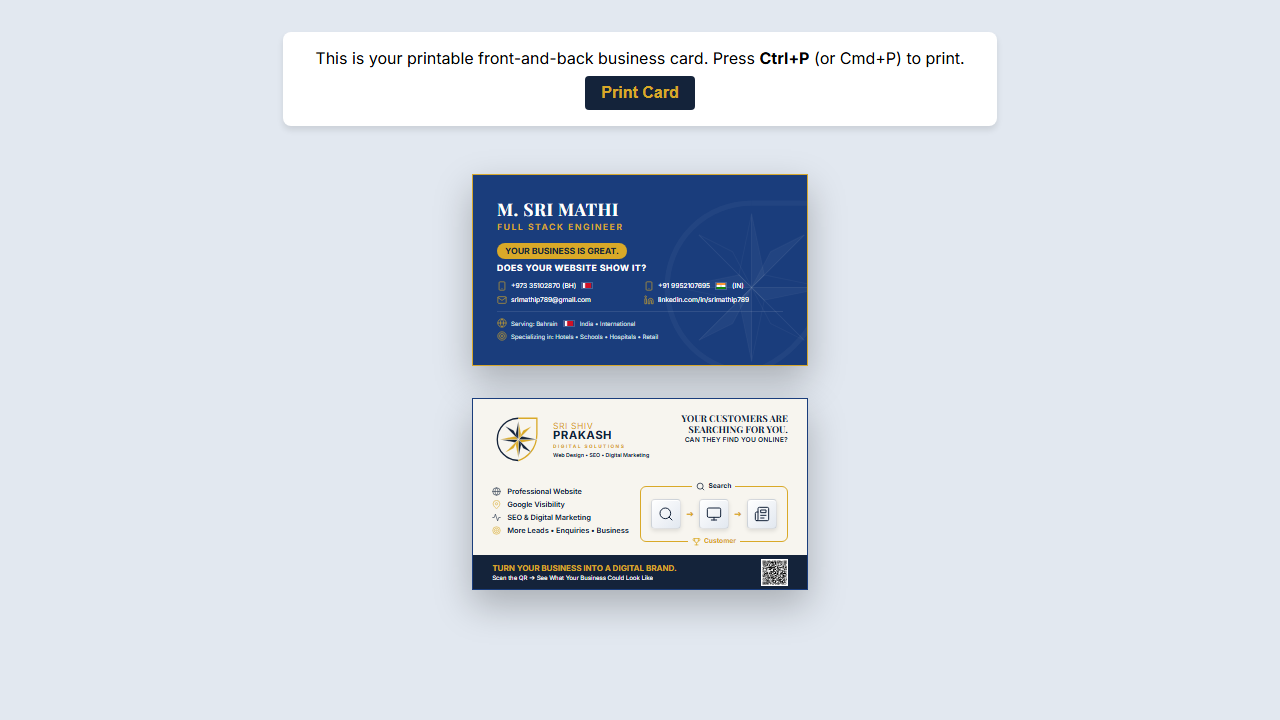
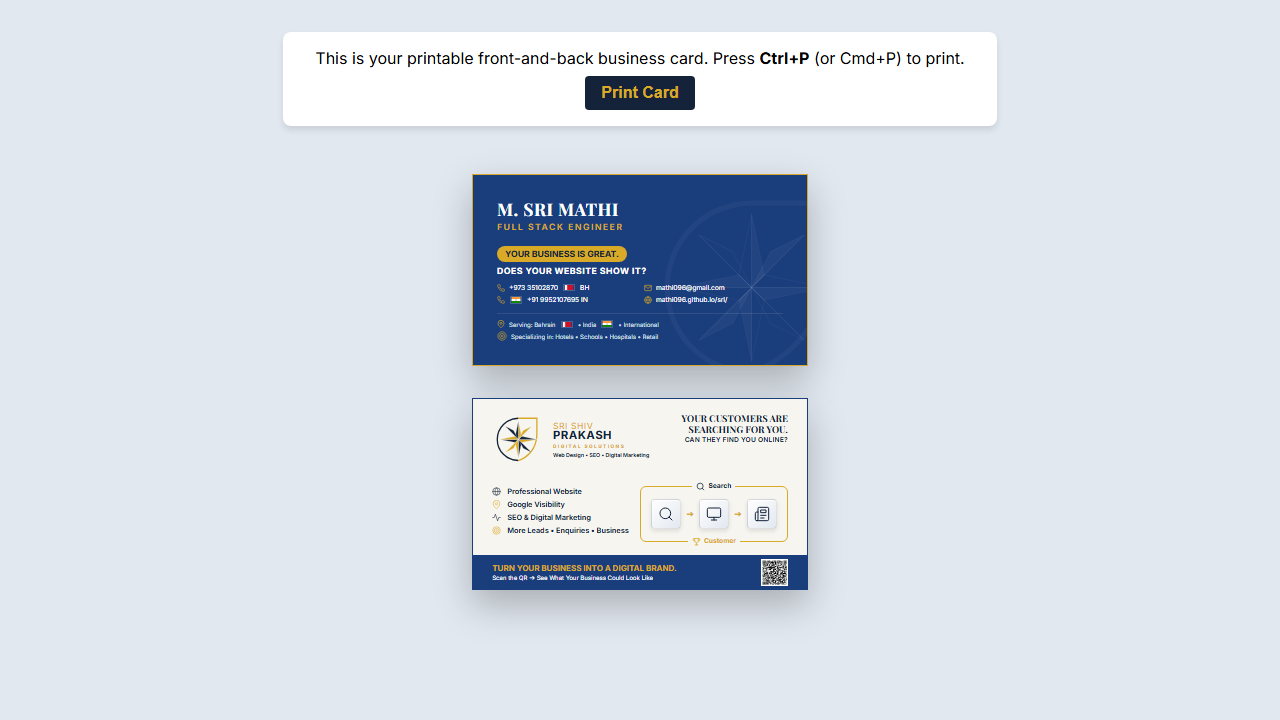
Update flag positions and footer color

Changed region(s): [[0.375, 0.3361, 0.5938, 0.4583], [0.3438, 0.7639, 0.6562, 0.825]]

diff --git a/index.html b/index.html
@@ -49,15 +49,15 @@
                 <p class="slogan">DOES YOUR WEBSITE SHOW IT?</p>
                 
                 <div class="contact-grid">
-                    <div class="contact-item"><svg class="c-icon" viewBox="0 0 24 24" width="10" height="10" stroke="var(--gold)" stroke-width="1.5" stroke-linecap="round" stroke-linejoin="round" fill="none"><rect x="5" y="2" width="14" height="20" rx="2" ry="2"></rect><line x1="12" y1="18" x2="12.01" y2="18"></line></svg> +973 35102870 (BH) <svg class="flag-icon" viewBox="0 0 5 3" width="12" height="7"><rect width="5" height="3" fill="#CE1126"/><polygon points="0,0 1.25,0 1.25,3 0,3" fill="#FFFFFF"/><polygon points="1.25,0 1.6,0.3 1.25,0.6 1.6,0.9 1.25,1.2 1.6,1.5 1.25,1.8 1.6,2.1 1.25,2.4 1.6,2.7 1.25,3 1.25,0" fill="#FFFFFF"/></svg></div>
-                    <div class="contact-item"><svg class="c-icon" viewBox="0 0 24 24" width="10" height="10" stroke="var(--gold)" stroke-width="1.5" stroke-linecap="round" stroke-linejoin="round" fill="none"><rect x="5" y="2" width="14" height="20" rx="2" ry="2"></rect><line x1="12" y1="18" x2="12.01" y2="18"></line></svg> +91 9952107695 <svg class="flag-icon" viewBox="0 0 9 6" width="12" height="8"><rect width="9" height="2" fill="#FF9933"/><rect y="2" width="9" height="2" fill="#FFFFFF"/><rect y="4" width="9" height="2" fill="#138808"/><circle cx="4.5" cy="3" r="0.8" fill="none" stroke="#000080" stroke-width="0.1"/><circle cx="4.5" cy="3" r="0.3" fill="#000080"/></svg> (IN)</div>
-                    <div class="contact-item"><svg class="c-icon" viewBox="0 0 24 24" width="10" height="10" stroke="var(--gold)" stroke-width="1.5" stroke-linecap="round" stroke-linejoin="round" fill="none"><path d="M4 4h16c1.1 0 2 .9 2 2v12c0 1.1-.9 2-2 2H4c-1.1 0-2-.9-2-2V6c0-1.1.9-2 2-2z"></path><polyline points="22,6 12,13 2,6"></polyline></svg> srimathip789@gmail.com</div>
-                    <div class="contact-item"><svg class="c-icon" viewBox="0 0 24 24" width="10" height="10" stroke="var(--gold)" stroke-width="1.5" stroke-linecap="round" stroke-linejoin="round" fill="none"><path d="M16 8a6 6 0 0 1 6 6v7h-4v-7a2 2 0 0 0-2-2 2 2 0 0 0-2 2v7h-4v-7a6 6 0 0 1 6-6z"></path><rect x="2" y="9" width="4" height="12"></rect><circle cx="4" cy="4" r="2"></circle></svg> linkedin.com/in/srimathip789</div>
+                    <div class="contact-item"><svg class="c-icon" viewBox="0 0 24 24" width="8" height="8" stroke="var(--gold)" stroke-width="2" stroke-linecap="round" stroke-linejoin="round" fill="none"><path d="M22 16.92v3a2 2 0 0 1-2.18 2 19.79 19.79 0 0 1-8.63-3.07 19.5 19.5 0 0 1-6-6 19.79 19.79 0 0 1-3.07-8.67A2 2 0 0 1 4.11 2h3a2 2 0 0 1 2 1.72 12.84 12.84 0 0 0 .7 2.81 2 2 0 0 1-.45 2.11L8.09 9.91a16 16 0 0 0 6 6l1.27-1.27a2 2 0 0 1 2.11-.45 12.84 12.84 0 0 0 2.81.7A2 2 0 0 1 22 16.92z"></path></svg> +973 35102870 <svg class="flag-icon" viewBox="0 0 5 3" width="12" height="7"><rect width="5" height="3" fill="#CE1126"/><polygon points="0,0 1.25,0 1.25,3 0,3" fill="#FFFFFF"/><polygon points="1.25,0 1.6,0.3 1.25,0.6 1.6,0.9 1.25,1.2 1.6,1.5 1.25,1.8 1.6,2.1 1.25,2.4 1.6,2.7 1.25,3 1.25,0" fill="#FFFFFF"/></svg> BH</div>
+                    <div class="contact-item"><svg class="c-icon" viewBox="0 0 24 24" width="8" height="8" stroke="var(--gold)" stroke-width="2" stroke-linecap="round" stroke-linejoin="round" fill="none"><path d="M4 4h16c1.1 0 2 .9 2 2v12c0 1.1-.9 2-2 2H4c-1.1 0-2-.9-2-2V6c0-1.1.9-2 2-2z"></path><polyline points="22,6 12,13 2,6"></polyline></svg> mathi096@gmail.com</div>
+                    <div class="contact-item"><svg class="c-icon" viewBox="0 0 24 24" width="8" height="8" stroke="var(--gold)" stroke-width="2" stroke-linecap="round" stroke-linejoin="round" fill="none"><path d="M22 16.92v3a2 2 0 0 1-2.18 2 19.79 19.79 0 0 1-8.63-3.07 19.5 19.5 0 0 1-6-6 19.79 19.79 0 0 1-3.07-8.67A2 2 0 0 1 4.11 2h3a2 2 0 0 1 2 1.72 12.84 12.84 0 0 0 .7 2.81 2 2 0 0 1-.45 2.11L8.09 9.91a16 16 0 0 0 6 6l1.27-1.27a2 2 0 0 1 2.11-.45 12.84 12.84 0 0 0 2.81.7A2 2 0 0 1 22 16.92z"></path></svg> <svg class="flag-icon" viewBox="0 0 9 6" width="12" height="8"><rect width="9" height="2" fill="#FF9933"/><rect y="2" width="9" height="2" fill="#FFFFFF"/><rect y="4" width="9" height="2" fill="#138808"/><circle cx="4.5" cy="3" r="0.8" fill="none" stroke="#000080" stroke-width="0.1"/><circle cx="4.5" cy="3" r="0.3" fill="#000080"/></svg> +91 9952107695 IN</div>
+                    <div class="contact-item"><svg class="c-icon" viewBox="0 0 24 24" width="8" height="8" stroke="var(--gold)" stroke-width="2" stroke-linecap="round" stroke-linejoin="round" fill="none"><circle cx="12" cy="12" r="10"></circle><line x1="2" y1="12" x2="22" y2="12"></line><path d="M12 2a15.3 15.3 0 0 1 4 10 15.3 15.3 0 0 1-4 10 15.3 15.3 0 0 1-4-10 15.3 15.3 0 0 1 4-10z"></path></svg> mathi096.github.io/sri/</div>
                 </div>
             </div>
 
             <div class="front-bottom">
-                <div class="info-item"><svg class="c-icon" viewBox="0 0 24 24" width="10" height="10" stroke="var(--gold)" stroke-width="1.5" stroke-linecap="round" stroke-linejoin="round" fill="none"><circle cx="12" cy="12" r="10"></circle><line x1="2" y1="12" x2="22" y2="12"></line><path d="M12 2a15.3 15.3 0 0 1 4 10 15.3 15.3 0 0 1-4 10 15.3 15.3 0 0 1-4-10 15.3 15.3 0 0 1 4-10z"></path></svg> Serving: Bahrain <svg class="flag-icon" viewBox="0 0 5 3" width="12" height="7"><rect width="5" height="3" fill="#CE1126"/><polygon points="0,0 1.25,0 1.25,3 0,3" fill="#FFFFFF"/><polygon points="1.25,0 1.6,0.3 1.25,0.6 1.6,0.9 1.25,1.2 1.6,1.5 1.25,1.8 1.6,2.1 1.25,2.4 1.6,2.7 1.25,3 1.25,0" fill="#FFFFFF"/></svg> India • International</div>
+                <div class="info-item"><svg class="c-icon" viewBox="0 0 24 24" width="8" height="8" stroke="var(--gold)" stroke-width="2" stroke-linecap="round" stroke-linejoin="round" fill="none"><path d="M21 10c0 7-9 13-9 13s-9-6-9-13a9 9 0 0 1 18 0z"></path><circle cx="12" cy="10" r="3"></circle></svg> Serving: Bahrain <svg class="flag-icon" viewBox="0 0 5 3" width="12" height="7"><rect width="5" height="3" fill="#CE1126"/><polygon points="0,0 1.25,0 1.25,3 0,3" fill="#FFFFFF"/><polygon points="1.25,0 1.6,0.3 1.25,0.6 1.6,0.9 1.25,1.2 1.6,1.5 1.25,1.8 1.6,2.1 1.25,2.4 1.6,2.7 1.25,3 1.25,0" fill="#FFFFFF"/></svg> • India <svg class="flag-icon" viewBox="0 0 9 6" width="12" height="8"><rect width="9" height="2" fill="#FF9933"/><rect y="2" width="9" height="2" fill="#FFFFFF"/><rect y="4" width="9" height="2" fill="#138808"/><circle cx="4.5" cy="3" r="0.8" fill="none" stroke="#000080" stroke-width="0.1"/><circle cx="4.5" cy="3" r="0.3" fill="#000080"/></svg> • International</div>
                 <div class="info-item"><svg class="c-icon" viewBox="0 0 24 24" width="10" height="10" stroke="var(--gold)" stroke-width="1.5" stroke-linecap="round" stroke-linejoin="round" fill="none"><circle cx="12" cy="12" r="10"></circle><circle cx="12" cy="12" r="6"></circle><circle cx="12" cy="12" r="2"></circle></svg> Specializing in: Hotels • Schools • Hospitals • Retail</div>
             </div>
         </div>

diff --git a/styles.css b/styles.css
@@ -350,7 +350,7 @@ body {
 }
 
 .back-footer {
-    background: var(--navy);
+    background: #1A3D7C;
     height: 0.35in;
     display: flex;
     align-items: center;
